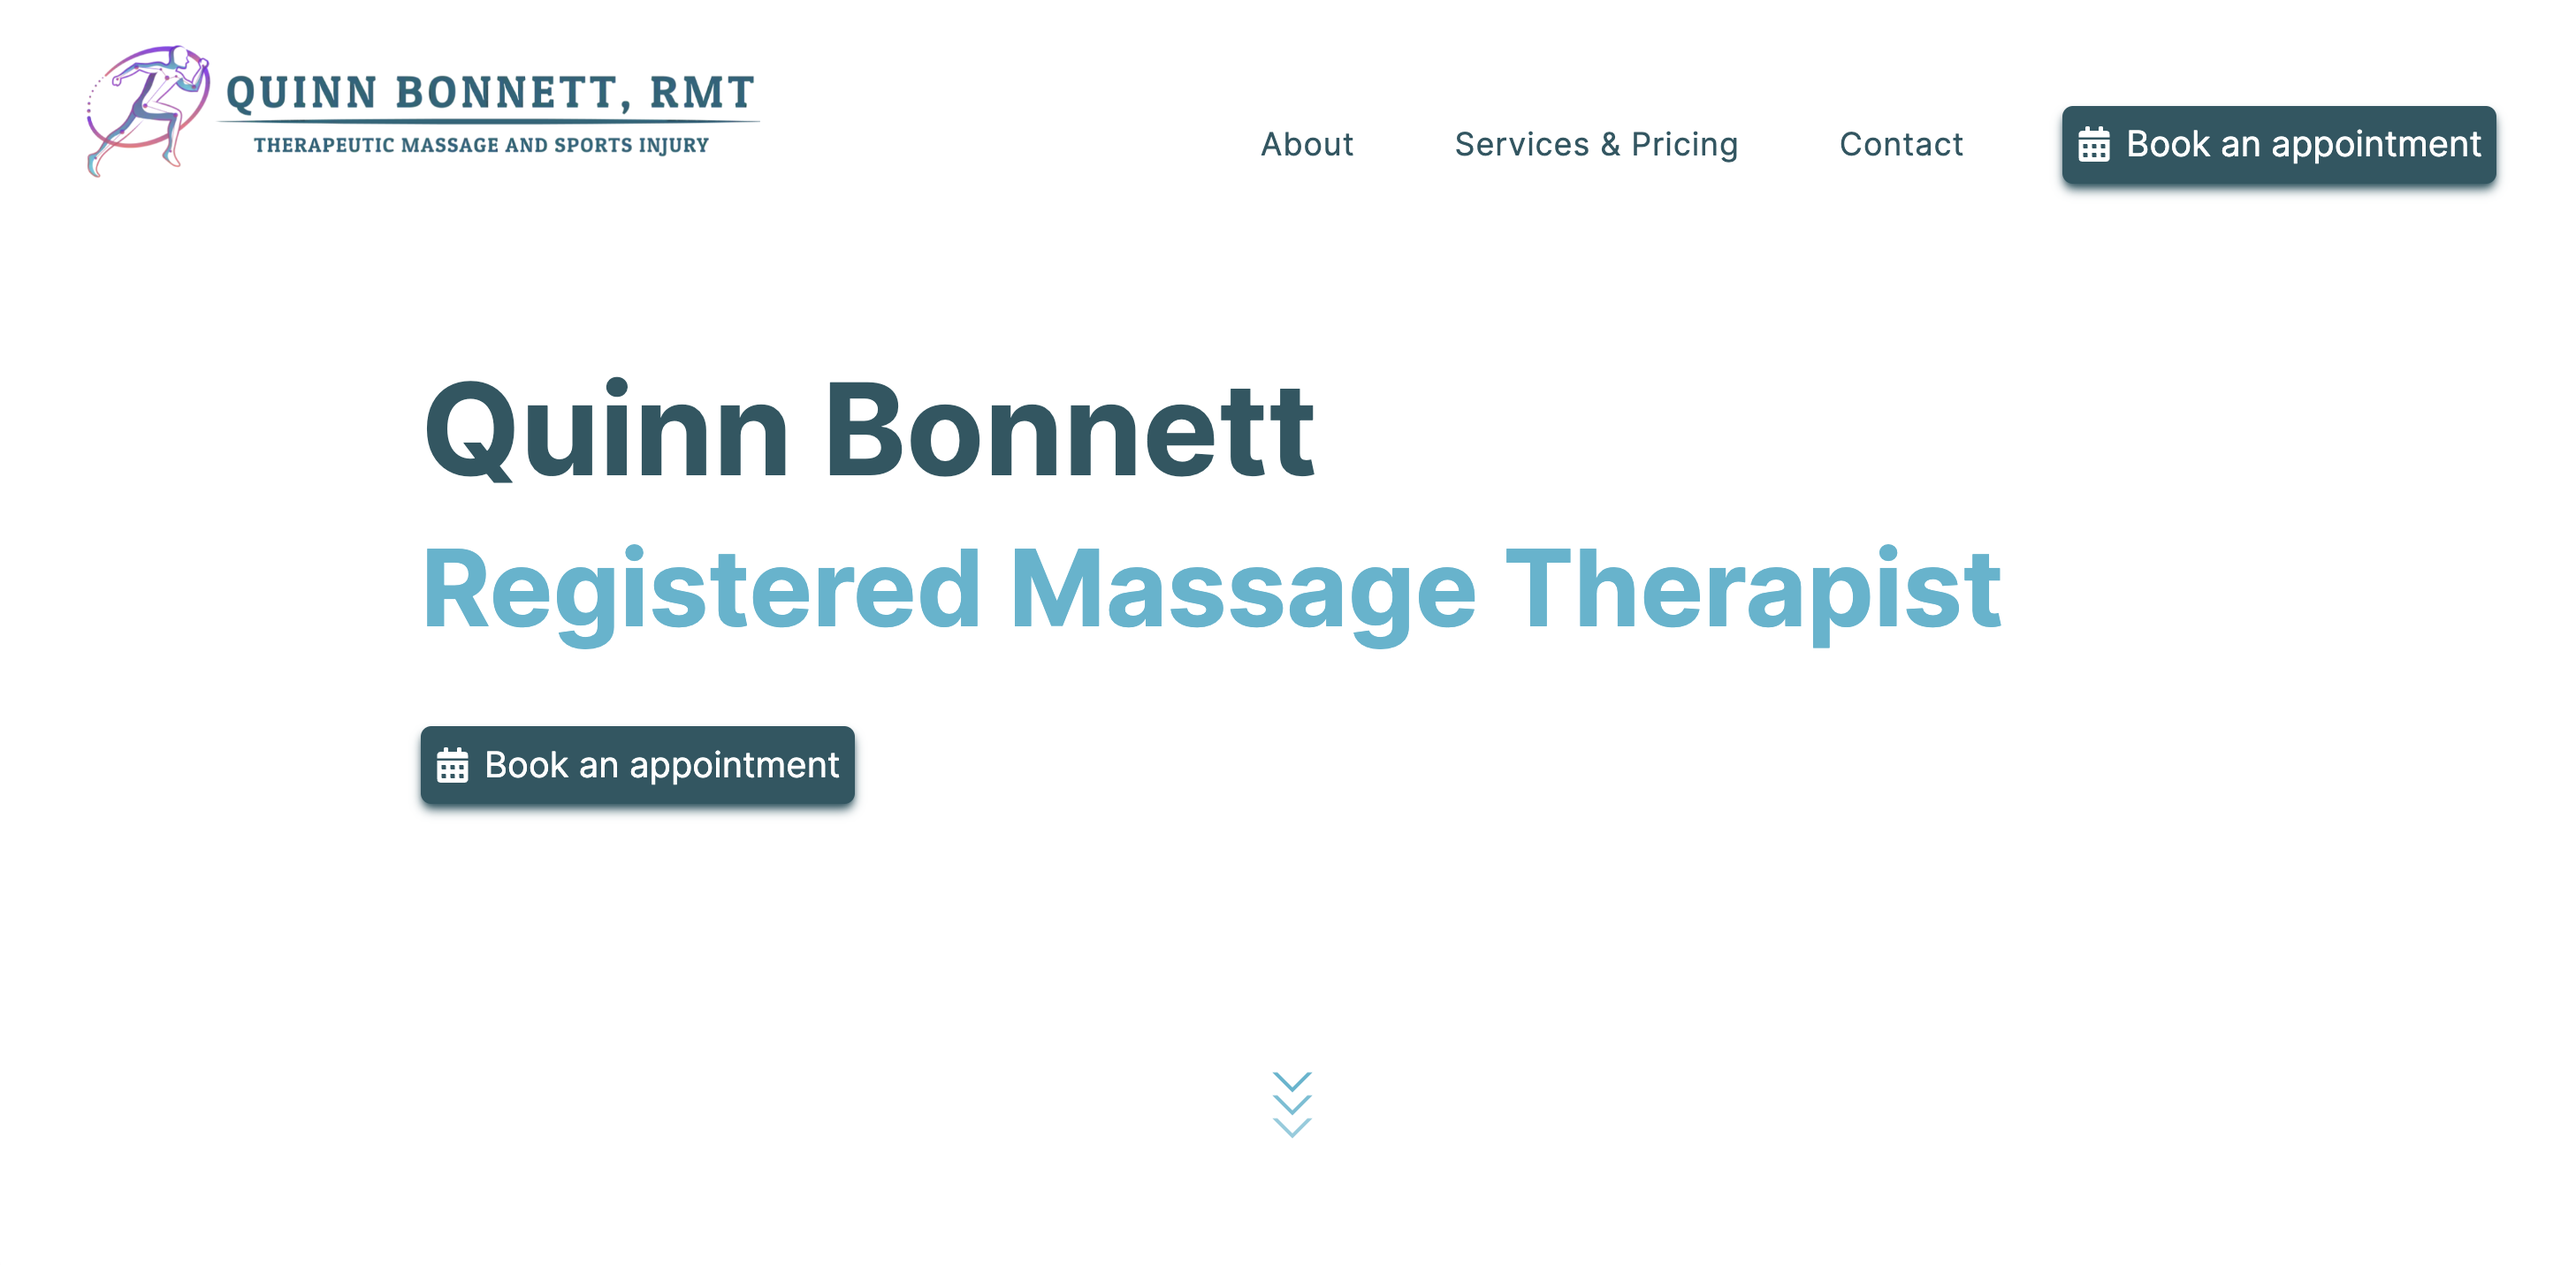
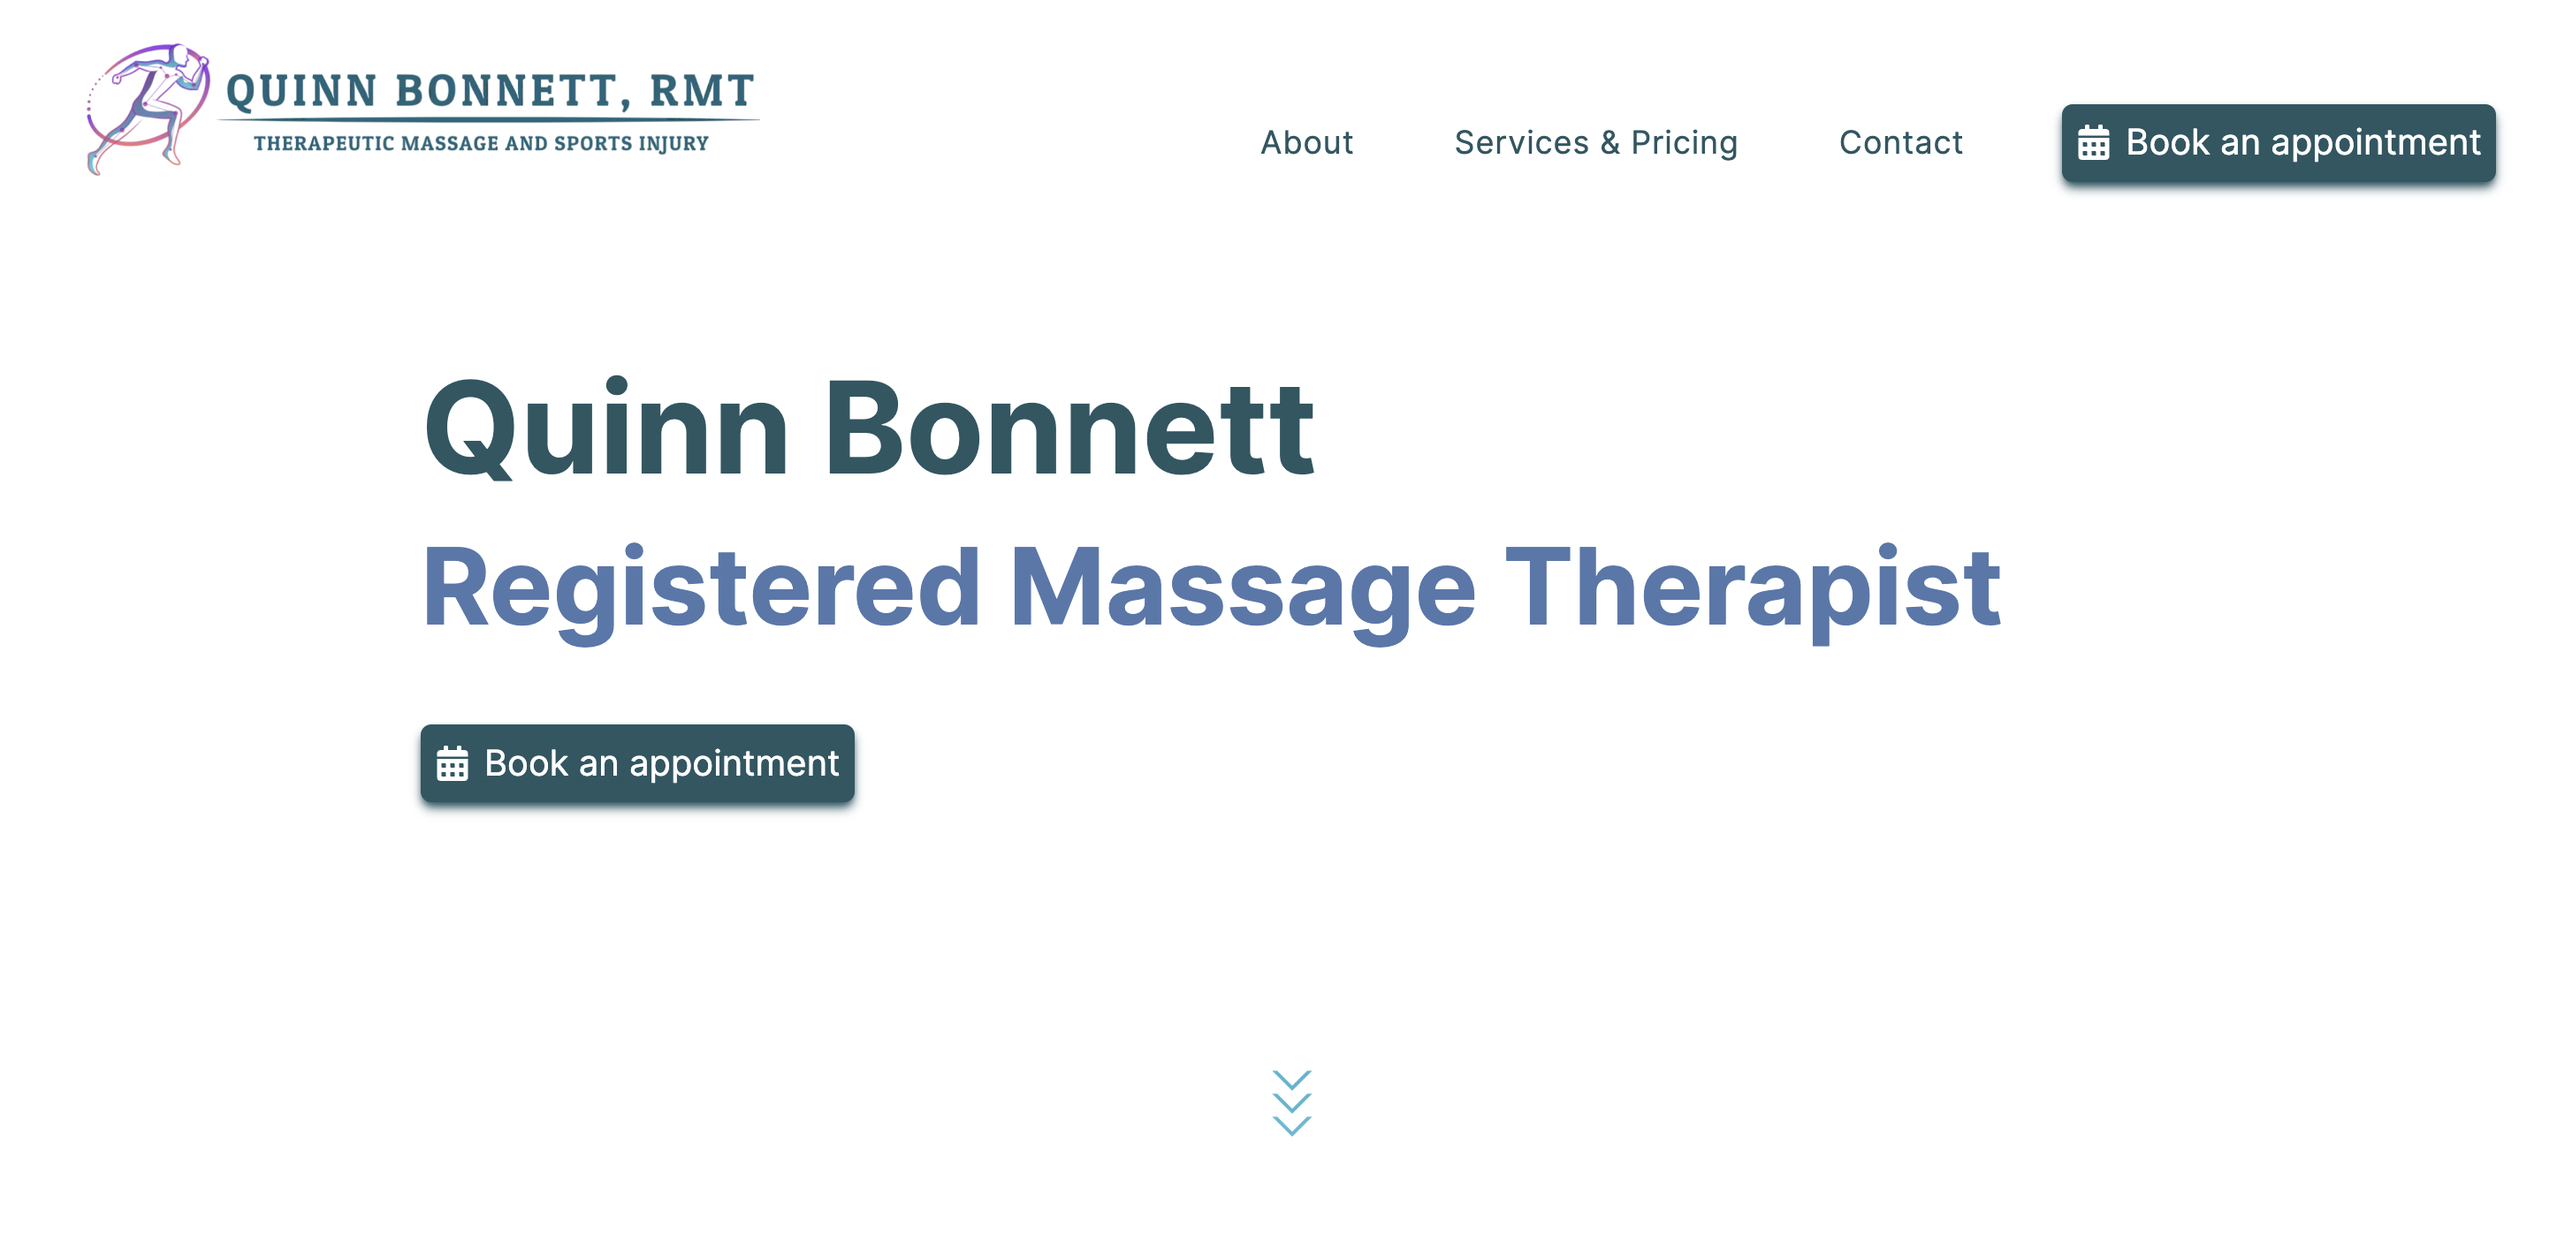
updated text colour

diff --git a/src/components/Header/Header.css b/src/components/Header/Header.css
@@ -11,7 +11,7 @@ header {
 }
 
 .HeroText h2 {
-  @apply text-2xl sm:text-3xl md:text-4xl lg:text-6xl font-bold text-accent-3 mb-20 md:mb-0 text-center md:text-left;
+  @apply text-2xl sm:text-3xl md:text-4xl lg:text-6xl font-bold text-[#5378AC] mb-20 md:mb-0 text-center md:text-left;
 }
 
 .MobileMenu__Background {
